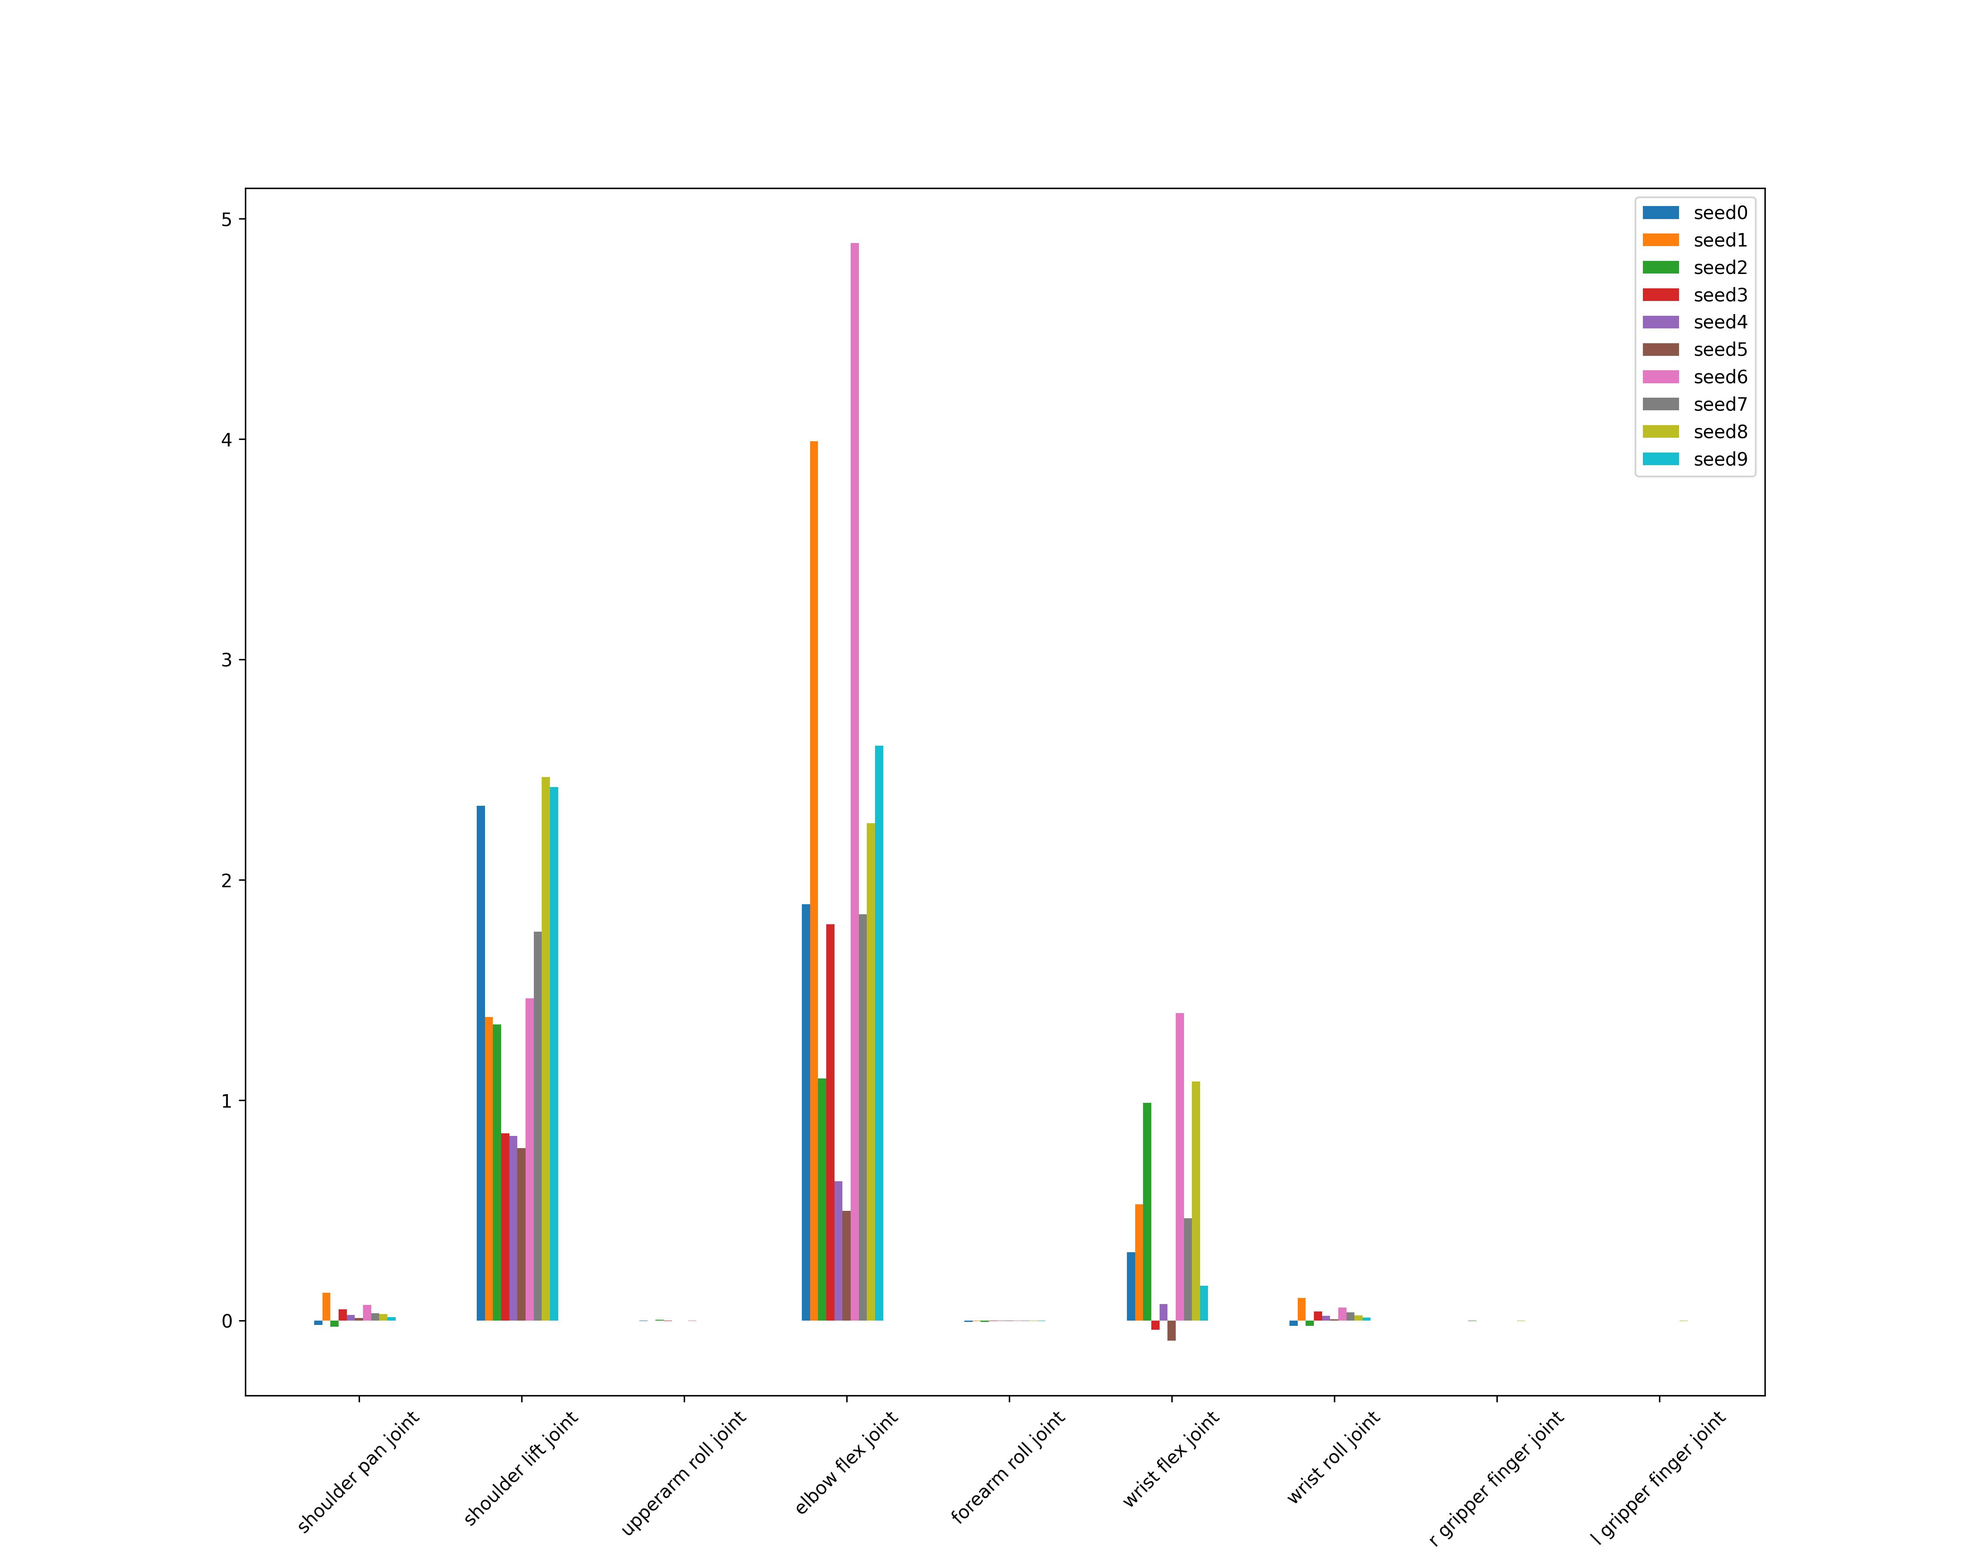
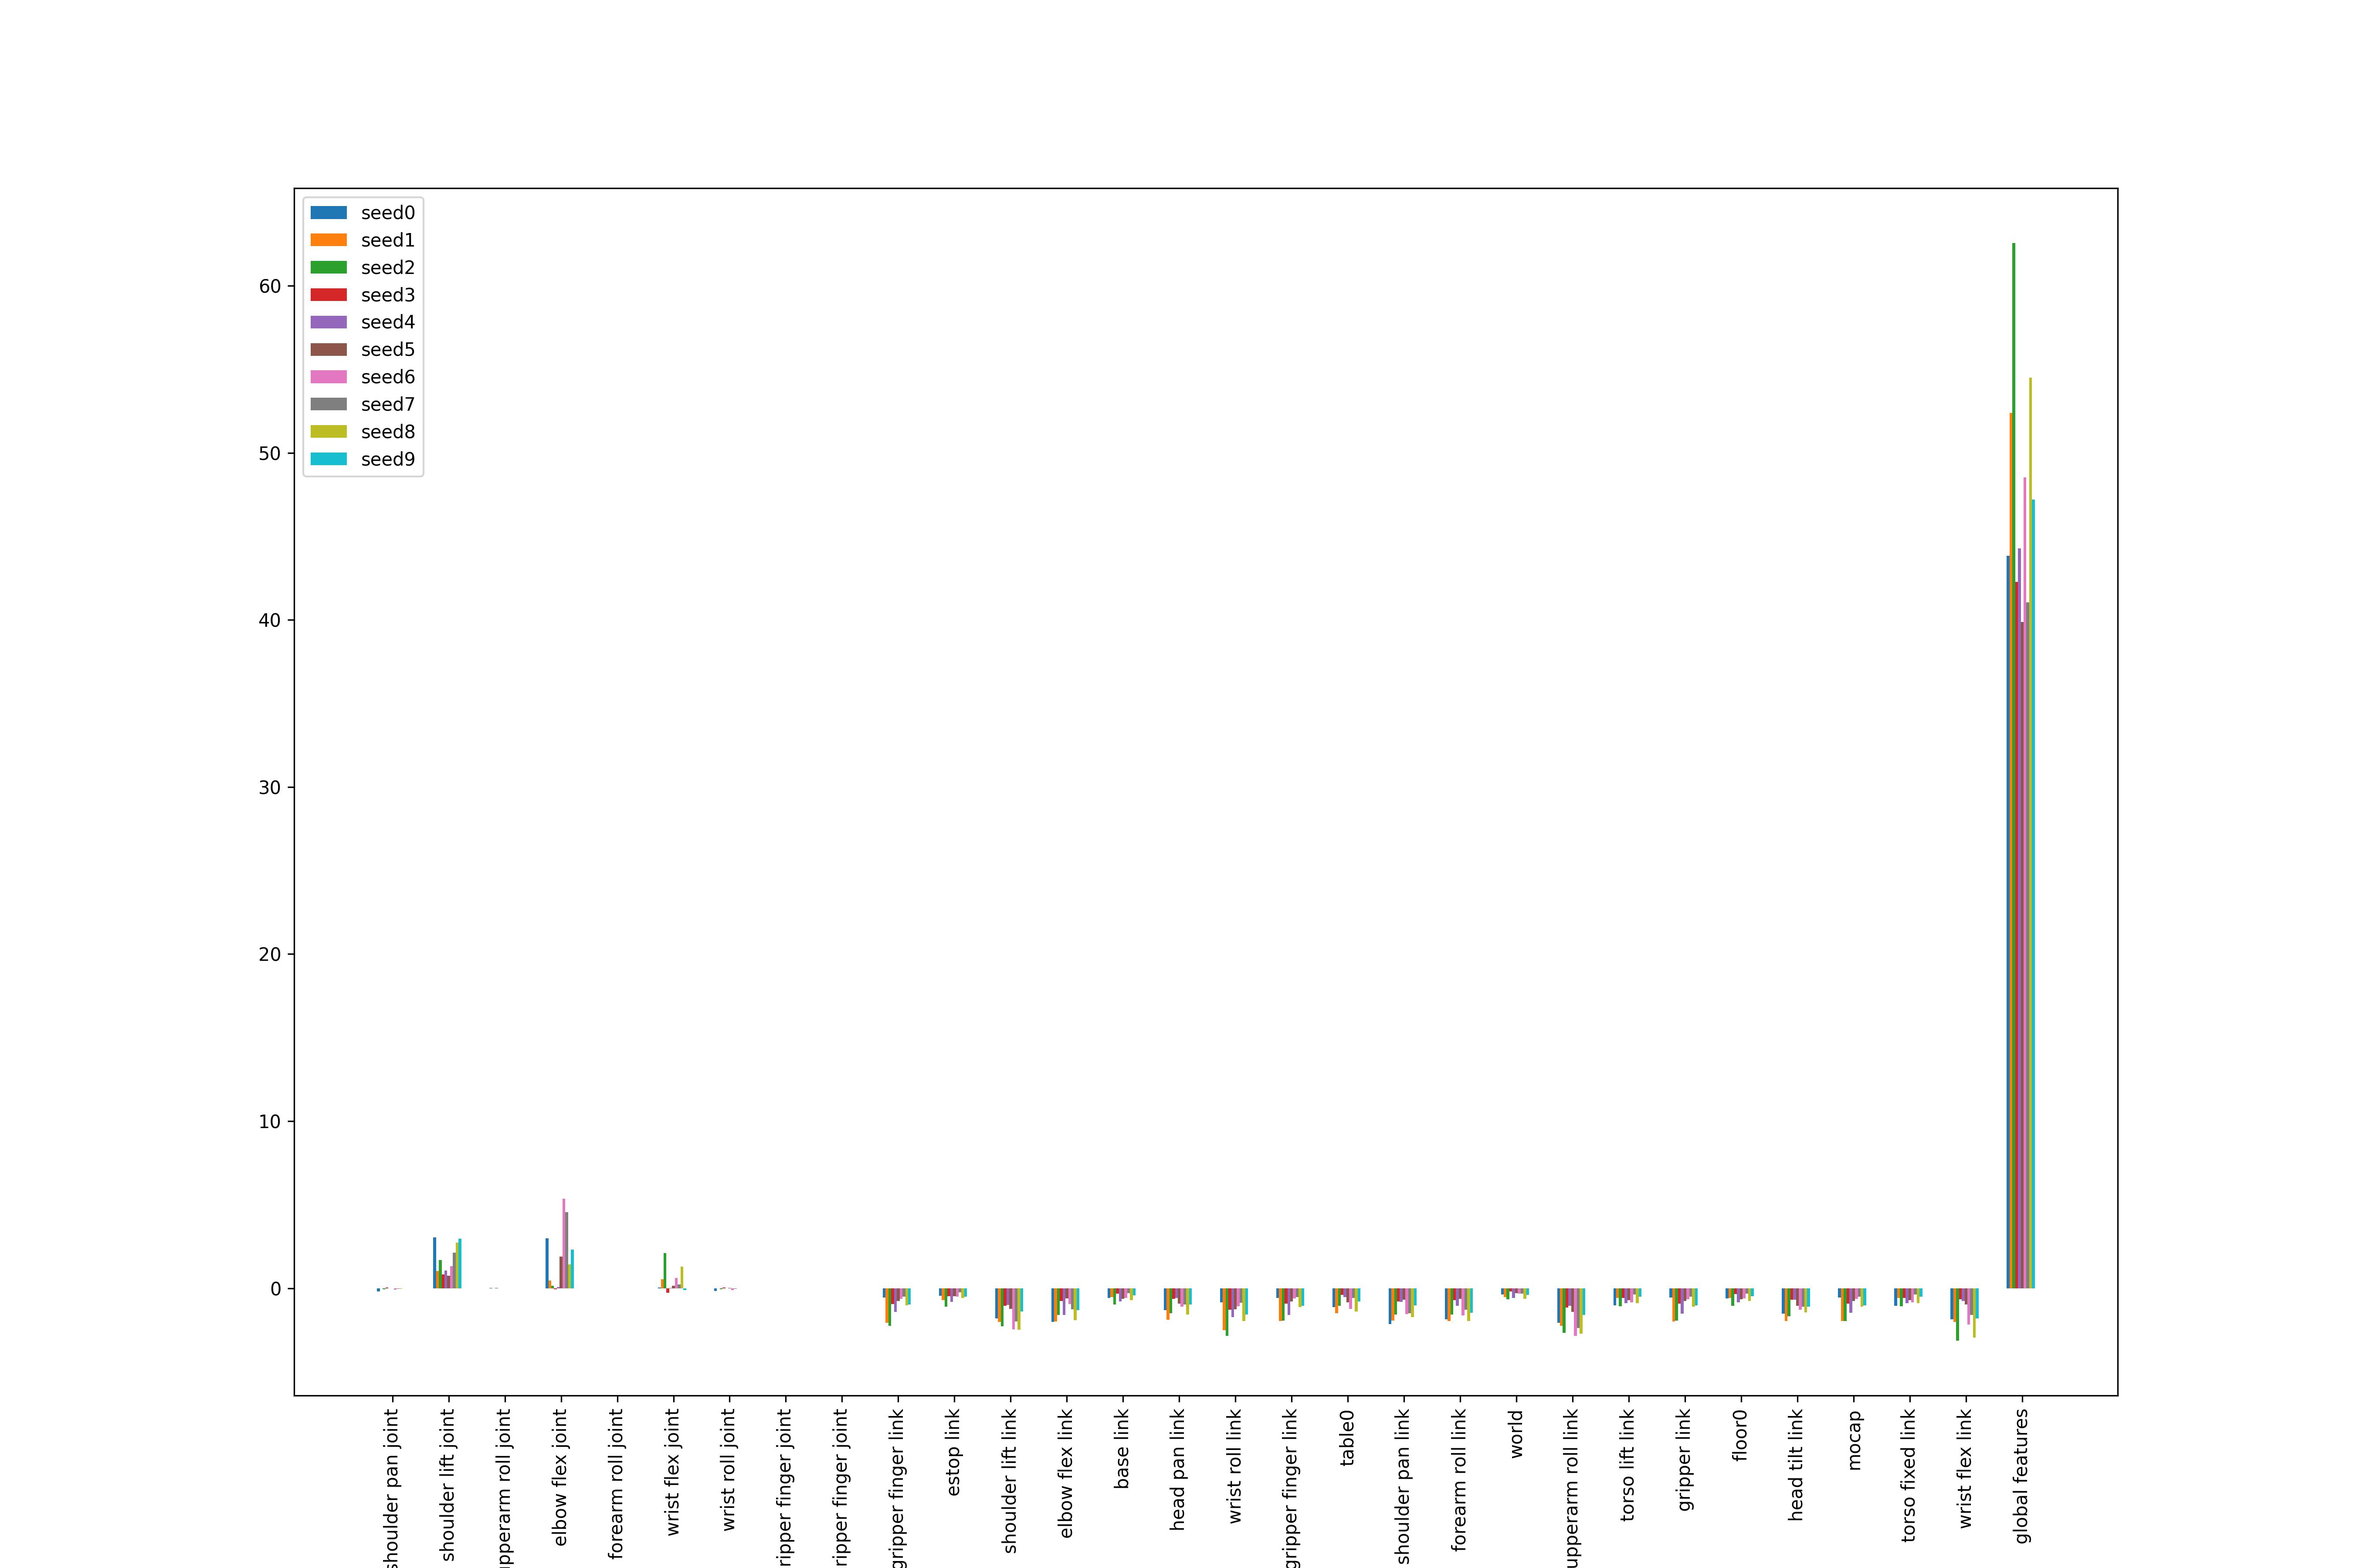
Evaluation on all the features added

diff --git a/Evaluate/evaluate_multiple.py b/Evaluate/evaluate_multiple.py
@@ -76,15 +76,15 @@ num_global_features = env.observation_space['global_features'].shape[0]
 
 device = torch.device('cuda' if torch.cuda.is_available() and args.cuda else 'cpu')
 
-episodes = 20
+episodes = 1
 
 edge_list = env.robot_graph.edge_list
 node_list = env.robot_graph.node_list
 
 rel_freq_edge = {}
 rel_freq_node = {}
-
-fig, ax = plt.subplots(figsize=[15, 12])
+rel_freq_global = {}
+fig, ax = plt.subplots(figsize=[18, 12])
 width = 1 / len(experiment_seed)
 step = - np.floor(len(experiment_seed) / 2)
 
@@ -103,6 +103,8 @@ for s in range(len(experiment_seed)):
 
     rel_freq_edge[s] = {}
     rel_freq_node[s] = {}
+    rel_freq_global[s] = 0
+
     for j in edge_list:
         if j is not None:
             rel_freq_edge[s][j.attrib['name']] = 0
@@ -123,6 +125,7 @@ for s in range(len(experiment_seed)):
             out.backward(out)
             node_rel = state.node_features.grad.sum(dim=1)
             edge_rel = state.edge_features.grad.sum(dim=1)
+            rel_freq_global[s] += state.global_features.grad.sum(dim=1)
             joint_ids = torch.argsort(edge_rel)
             body_ids = torch.argsort(node_rel)
             for id in joint_ids:
@@ -146,15 +149,19 @@ for s in range(len(experiment_seed)):
     print("Test Episodes: {}, Avg. Reward: {}".format(episodes, round(avg_reward, 2)))
     print("----------------------------------------")
 
-    x = [2 * x + step * width for x in range(len(rel_freq_edge[s]))]
-    ax.bar(x, np.array(list(rel_freq_edge[s].values())) / num_samples, width,
+    x = [2 * x + step * width for x in range(len(rel_freq_edge[s]) + len(rel_freq_node[s]) + 1)]
+    ax.bar(x,
+           np.array(list(rel_freq_edge[s].values()) + list(rel_freq_node[s].values()) + [rel_freq_global[s]]) / num_samples,
+           width,
            label=f'seed{s}')
     step += 1
 
 fig_name = os.path.join(exp_path, 'LRP_result.jpg')
-x = [2 * x for x in range(len(rel_freq_edge[0]))]
+x = [2 * x for x in range(len(rel_freq_edge[0]) + len(rel_freq_node[0]) + 1)]
 keys = [' '.join(k.split(':')[1].split('_')) for k in rel_freq_edge[0].keys()]
-ax.set_xticks(x, keys, rotation=45)
+keys += [(' '.join(k.split(':')[1].split('_')) if 'robot0' in k else k) for k in rel_freq_node[0].keys()]
+keys += ['global features']
+ax.set_xticks(x, keys, rotation=90)
 ax.legend()
 plt.savefig(fig_name, dpi=300)
 plt.show()

diff --git a/Evaluate/evaluate_single.py b/Evaluate/evaluate_single.py
@@ -10,6 +10,8 @@ from SAC.sac import SAC
 from utils import state_2_graph, state_2_graphbatch
 import matplotlib
 from tqdm import tqdm
+import os
+from pathlib import Path
 
 matplotlib.use('TkAgg')
 import matplotlib.pyplot as plt
@@ -17,6 +19,8 @@ import matplotlib.pyplot as plt
 parser = argparse.ArgumentParser(description='PyTorch Soft Actor-Critic Args')
 parser.add_argument('--env-name', default="FetchReachEnv-v0",
                     help='Mujoco Gym environment (default: HalfCheetah-v2)')
+parser.add_argument('--exp-type', default="standard",
+                    help='Type of the experiment like normal or abnormal')
 parser.add_argument('--policy', default="Gaussian",
                     help='Policy Type: Gaussian | Deterministic (default: Gaussian)')
 parser.add_argument('--eval', type=bool, default=True,
@@ -62,6 +66,8 @@ parser.add_argument('--aggregation', default="avg",
 parser.add_argument('--cuda', action="store_true",
                     help='run on CUDA (default: False)')
 args = parser.parse_args()
+
+exp_path = os.path.join(Path(__file__).parent.parent, 'Data', args.env_name, args.exp_type, f'seed{args.seed}')
 
 # Environment
 # env = NormalizedActions(gym.make(args.env_name))
@@ -122,6 +128,8 @@ for _ in tqdm(range(episodes)):
         out.backward(out)
         node_rel = state.node_features.grad.sum(dim=1)
         edge_rel = state.edge_features.grad.sum(dim=1)
+        global_rel = state.global_features.grad.sum(dim=1)
+        print(global_rel)
         joint_ids = torch.argsort(edge_rel)
         body_ids = torch.argsort(node_rel)
         for id in joint_ids:

diff --git a/RobotGraphModel/RobotGraph.py b/RobotGraphModel/RobotGraph.py
@@ -323,7 +323,7 @@ class RobotGraph:
         feature_list = []
         len_features = None
         for edge in self.edge_list:
-            if edge is not None and edge.attrib['name'] != 'robot0:elbow_flex_joint':
+            if edge is not None: #and edge.attrib['name'] != 'robot0:elbow_flex_joint':
                 # dt = self.sim.nsubsteps * self.sim.model.opt.timestep
                 # id = self.sim.model.joint_name2id(edge.attrib['name'])
                 # jnt_ranges = self.sim.model.jnt_range[id]
